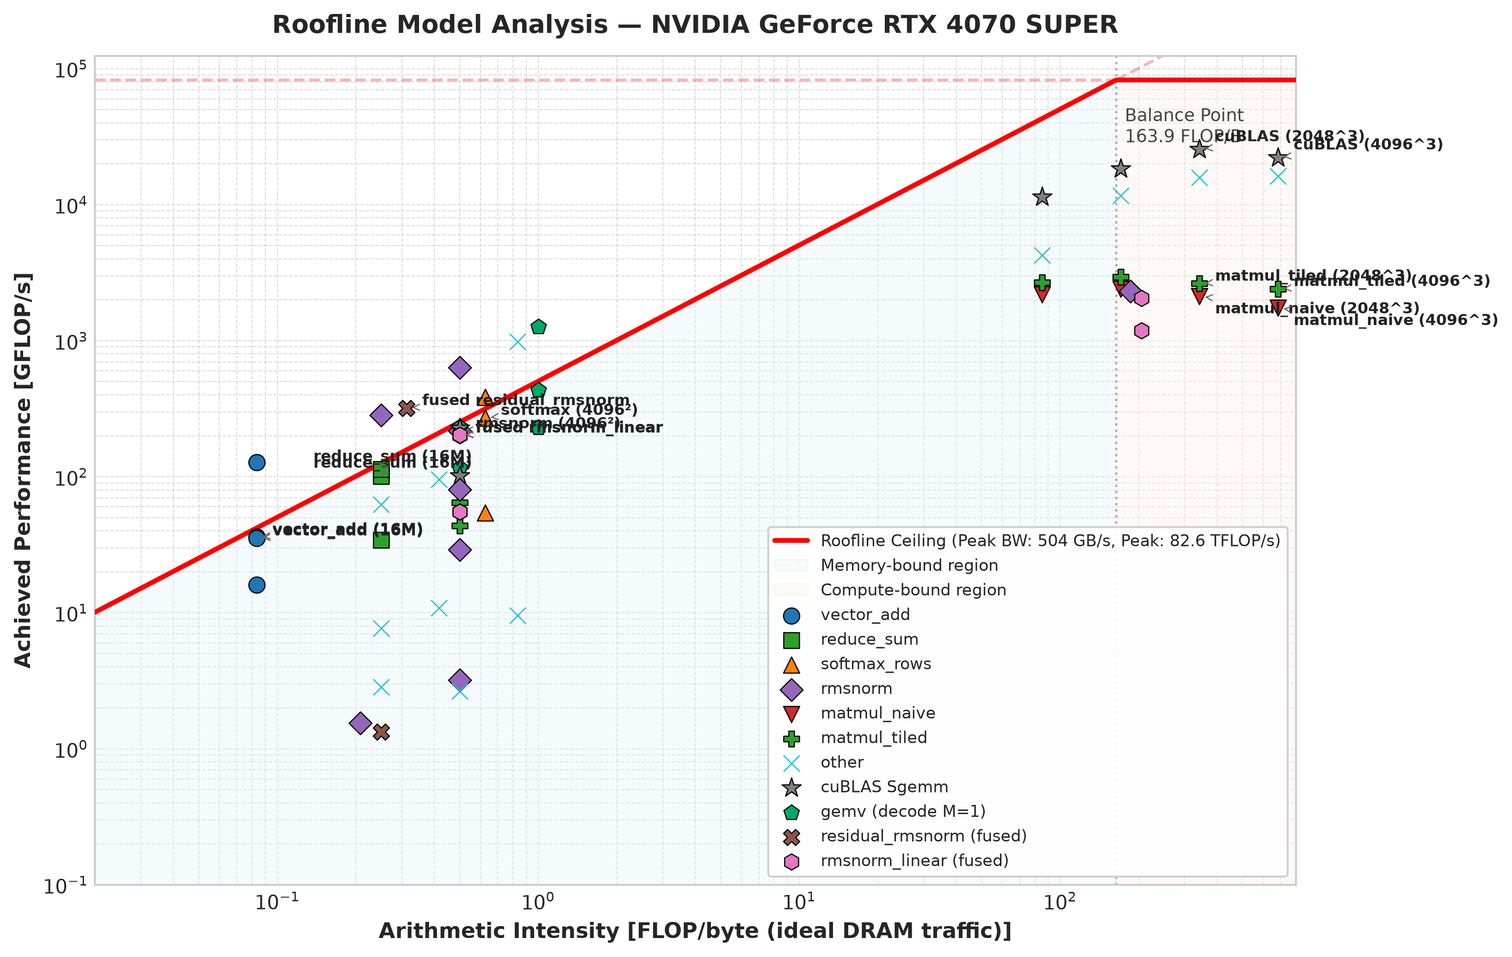
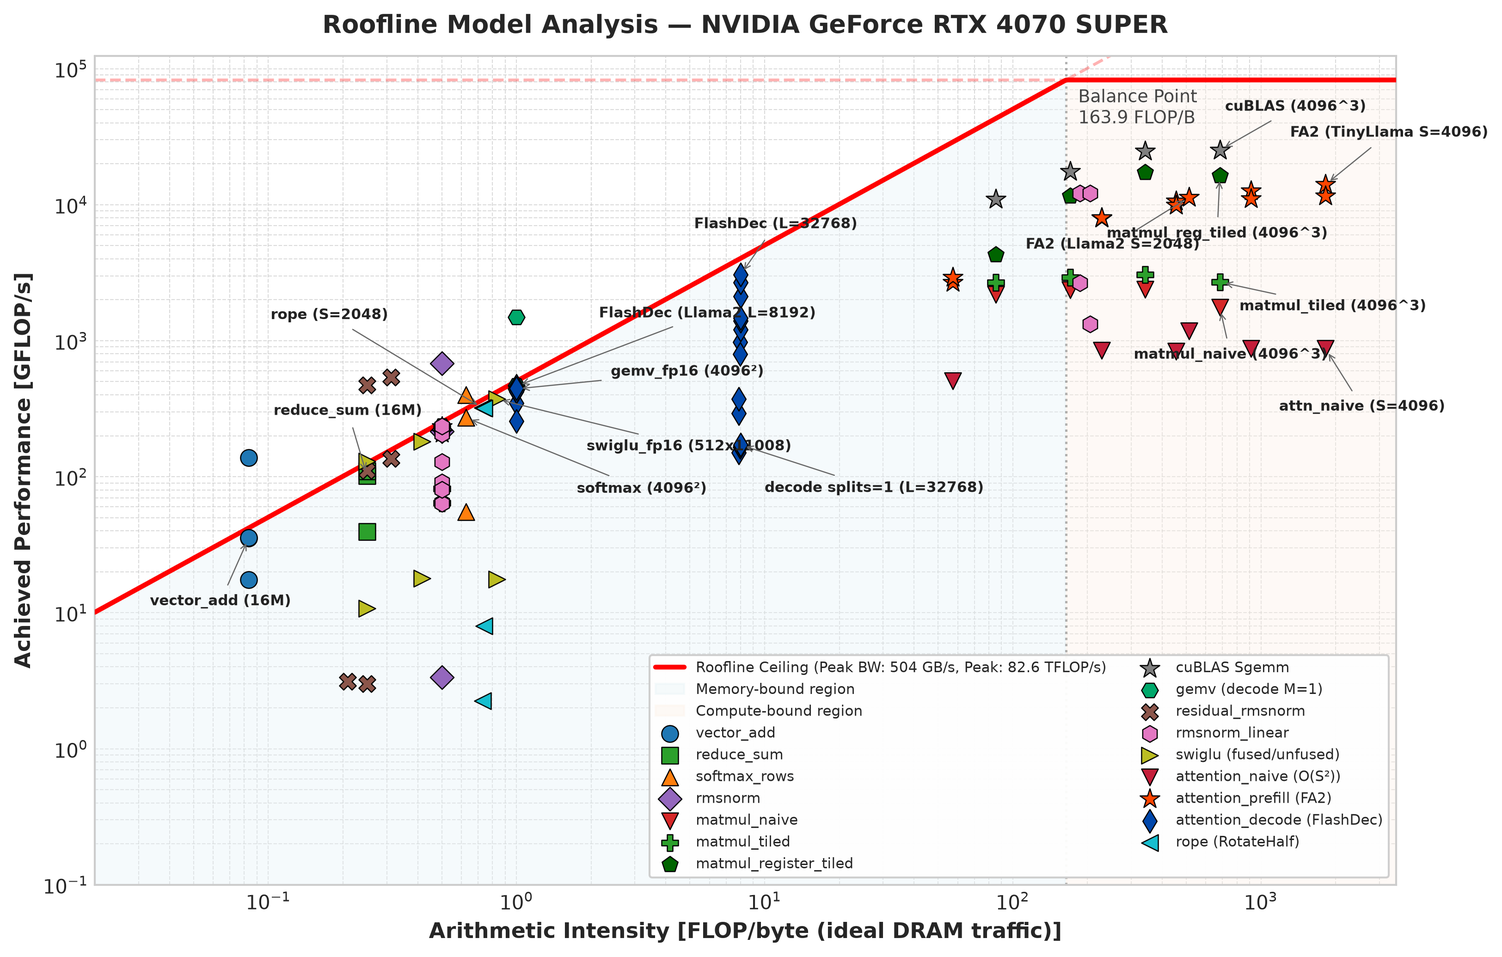
module4/phase8-ncu-profiling-roofline-and-pool-fix

diff --git a/tools/roofline_plot.py b/tools/roofline_plot.py
@@ -49,9 +49,9 @@ def plot_roofline(data: dict, output_path: str, peak_compute_gflops: float = 826
     plt.style.use("seaborn-v0_8-whitegrid" if "seaborn-v0_8-whitegrid" in plt.style.available else "default")
     fig, ax = plt.subplots(figsize=(11, 7), dpi=300)
 
-    # Define AI domain (log scale: 0.01 to 1000 FLOP/byte)
+    # Define AI domain (log scale: 0.02 to 3500 FLOP/byte to encompass FA2 prefill S=4096 at AI=1821)
     ai_min = 0.02
-    ai_max = 800.0
+    ai_max = 3500.0
     ai_range = np.logspace(np.log10(ai_min), np.log10(ai_max), 1000)
 
     # Calculate theoretical ceilings
@@ -69,7 +69,7 @@ def plot_roofline(data: dict, output_path: str, peak_compute_gflops: float = 826
 
     # Vertical line at ridge point (balance point)
     ax.axvline(ridge_ai, color="gray", linestyle=":", alpha=0.6, linewidth=1.2)
-    ax.text(ridge_ai * 1.08, peak_compute_gflops * 0.45, f"Balance Point\n{ridge_ai:.1f} FLOP/B", 
+    ax.text(ridge_ai * 1.12, peak_compute_gflops * 0.62, f"Balance Point\n{ridge_ai:.1f} FLOP/B",
             color="#444444", fontsize=9, verticalalignment="center", fontweight="medium")
 
     # Shaded regions
@@ -82,12 +82,18 @@ def plot_roofline(data: dict, output_path: str, peak_compute_gflops: float = 826
         "reduce_sum": {"color": "#2ca02c", "marker": "s", "label": "reduce_sum"},
         "softmax_rows": {"color": "#ff7f0e", "marker": "^", "label": "softmax_rows"},
         "rmsnorm": {"color": "#9467bd", "marker": "D", "label": "rmsnorm"},
+        "rope": {"color": "#17becf", "marker": "<", "label": "rope (RotateHalf)"},
+        "swiglu": {"color": "#bcbd22", "marker": ">", "label": "swiglu (fused/unfused)"},
         "matmul_naive": {"color": "#d62728", "marker": "v", "label": "matmul_naive"},
         "matmul_tiled": {"color": "#2ca02c", "marker": "P", "label": "matmul_tiled"},
-        "gemv": {"color": "#00a86b", "marker": "p", "label": "gemv (decode M=1)"},
+        "matmul_register_tiled": {"color": "#006400", "marker": "p", "label": "matmul_register_tiled"},
+        "gemv": {"color": "#00a86b", "marker": "H", "label": "gemv (decode M=1)"},
         "cublas": {"color": "#7f7f7f", "marker": "*", "label": "cuBLAS Sgemm"},
-        "residual_rmsnorm": {"color": "#8c564b", "marker": "X", "label": "residual_rmsnorm (fused)"},
-        "rmsnorm_linear": {"color": "#e377c2", "marker": "h", "label": "rmsnorm_linear (fused)"},
+        "residual_rmsnorm": {"color": "#8c564b", "marker": "X", "label": "residual_rmsnorm"},
+        "rmsnorm_linear": {"color": "#e377c2", "marker": "h", "label": "rmsnorm_linear"},
+        "attention_naive": {"color": "#c41e3a", "marker": "v", "label": "attention_naive (O(S²))"},
+        "attention_prefill": {"color": "#ff4500", "marker": "*", "label": "attention_prefill (FA2)"},
+        "attention_decode": {"color": "#0047ab", "marker": "d", "label": "attention_decode (FlashDec)"},
         "other": {"color": "#17becf", "marker": "x", "label": "other"},
     }
 
@@ -100,8 +106,6 @@ def plot_roofline(data: dict, output_path: str, peak_compute_gflops: float = 826
 
         name = r.get("name", "")
         size = r.get("size", "")
-        flops = r.get("flops", 0.0)
-        bytes_val = r.get("bytes", 0.0)
         gflops = r.get("gflops", 0.0)
         ai = r.get("arithmetic_intensity", 0.0)
 
@@ -111,12 +115,24 @@ def plot_roofline(data: dict, output_path: str, peak_compute_gflops: float = 826
 
         # Classify kernel family
         key = "other"
-        if "cublas" in name.lower():
+        if "attention_naive" in name:
+            key = "attention_naive"
+        elif "attention_prefill" in name:
+            key = "attention_prefill"
+        elif "attention_decode" in name:
+            key = "attention_decode"
+        elif "rope" in name:
+            key = "rope"
+        elif "swiglu" in name:
+            key = "swiglu"
+        elif "cublas" in name.lower():
             key = "cublas"
-        elif "rmsnorm_linear" in name:
+        elif "rmsnorm_linear" in name or "rmsnorm+" in name:
             key = "rmsnorm_linear"
-        elif "residual_rmsnorm" in name:
+        elif "residual_rmsnorm" in name or "residual+rmsnorm" in name:
             key = "residual_rmsnorm"
+        elif "matmul_register_tiled" in name:
+            key = "matmul_register_tiled"
         elif "gemv" in name.lower():
             key = "gemv"
         elif "vector_add" in name:
@@ -137,55 +153,115 @@ def plot_roofline(data: dict, output_path: str, peak_compute_gflops: float = 826
         if plot_label:
             plotted_labels.add(plot_label)
 
-        size_pt = 70 if key != "cublas" else 110
+        size_pt = 115 if key in ("cublas", "attention_prefill") else 75
         ax.scatter(ai, gflops, color=style["color"], marker=style["marker"], s=size_pt,
                    edgecolor="black", linewidth=0.6, zorder=5, label=plot_label)
 
         # Select representative points to label on the plot
         should_label = False
         label_text = name.replace(" (fused)", "").replace(" (baseline)", "")
-        
-        if key == "vector_add" and ("192.0 MiB" in size or "768.0 MiB" in size):
+
+        if key == "vector_add" and "192.0 MiB" in size:
             should_label = True
             label_text = "vector_add (16M)"
-        elif key == "reduce_sum" and ("64.0 MiB" in size or "256.0 MiB" in size):
+        elif key == "reduce_sum" and "64.0 MiB" in size:
             should_label = True
             label_text = "reduce_sum (16M)"
         elif key == "softmax_rows" and "4096 x 4096" in size:
             should_label = True
             label_text = "softmax (4096²)"
-        elif key == "rmsnorm" and "4096 x 4096" in size:
+        elif key == "rope" and "prefill S=2048 TinyLlama" in size:
             should_label = True
-            label_text = "rmsnorm (4096²)"
-        elif key == "matmul_naive" and ("4096^3" in size or "2048^3" in size):
+            label_text = "rope (S=2048)"
+        elif key == "swiglu" and name == "swiglu_fp16 (fused FP16)" and "512x11008" in size:
+            should_label = True
+            label_text = "swiglu_fp16 (512x11008)"
+        elif key == "matmul_naive" and "4096^3" in size:
             should_label = True
             label_text = f"matmul_naive ({size})"
-        elif key == "matmul_tiled" and ("4096^3" in size or "2048^3" in size):
+        elif key == "matmul_tiled" and "4096^3" in size:
             should_label = True
             label_text = f"matmul_tiled ({size})"
-        elif key == "cublas" and ("4096^3" in size or "2048^3" in size):
+        elif key == "matmul_register_tiled" and "4096^3" in size:
+            should_label = True
+            label_text = f"matmul_reg_tiled ({size})"
+        elif key == "cublas" and "4096^3" in size:
             should_label = True
             label_text = f"cuBLAS ({size})"
-        elif key == "rmsnorm_linear" and "1x12288x4096" in size:
+        elif key == "attention_naive" and "TinyLlama S=4096" in size:
             should_label = True
-            label_text = "fused rmsnorm_linear"
-        elif key == "residual_rmsnorm" and "512x4096" in size:
+            label_text = "attn_naive (S=4096)"
+        elif key == "attention_prefill" and name == "attention_prefill (FA2)" and (
+            "TinyLlama S=4096" in size or "Llama2-7B S=2048" in size
+        ):
             should_label = True
-            label_text = "fused residual_rmsnorm"
+            label_text = "FA2 (TinyLlama S=4096)" if "S=4096" in size else "FA2 (Llama2 S=2048)"
+        elif key == "attention_decode" and name == "attention_decode (FlashDecoding)" and (
+            "TinyLlama L=32768" in size or "Llama2-7B L=8192" in size
+        ):
+            should_label = True
+            label_text = "FlashDec (L=32768)" if "L=32768" in size else "FlashDec (Llama2 L=8192)"
+        elif key == "attention_decode" and name == "attention_decode (splits=1)" and "TinyLlama L=32768" in size:
+            should_label = True
+            label_text = "decode splits=1 (L=32768)"
+        elif key == "gemv" and name == "gemv_fp16" and "1x4096x4096" in size:
+            should_label = True
+            label_text = "gemv_fp16 (4096²)"
 
         if should_label:
             offset_x = 1.15
             offset_y = 1.05
-            if "naive" in name:
-                offset_y = 0.75
-            elif "cublas" in name:
-                offset_y = 1.15
+            if "naive" in name and "attention" not in name:
+                offset_x = 0.45
+                offset_y = 0.42
+            elif key == "attention_naive":
+                offset_x = 0.65
+                offset_y = 0.35
+            elif key == "attention_prefill" and "S=4096" in size:
+                offset_x = 0.72
+                offset_y = 2.25
+            elif key == "attention_prefill" and "Llama2-7B" in size:
+                offset_x = 0.22
+                offset_y = 0.42
+            elif key == "attention_decode" and "splits=1" in name:
+                offset_x = 1.25
+                offset_y = 0.45
+            elif key == "attention_decode" and "TinyLlama L=32768" in size:
+                offset_x = 0.65
+                offset_y = 2.20
+            elif key == "attention_decode" and "Llama2-7B" in size:
+                offset_x = 2.15
+                offset_y = 3.20
+            elif key == "rope":
+                offset_x = 0.14
+                offset_y = 4.50
+            elif key == "swiglu":
+                offset_x = 2.30
+                offset_y = 0.42
+            elif key == "softmax_rows":
+                offset_x = 2.80
+                offset_y = 0.28
+            elif key == "gemv":
+                offset_x = 2.40
+                offset_y = 1.25
+            elif key == "cublas":
+                offset_x = 1.05
+                offset_y = 1.95
+            elif key == "matmul_register_tiled":
+                offset_x = 0.35
+                offset_y = 0.35
+            elif key == "matmul_tiled":
+                offset_x = 1.20
+                offset_y = 0.62
+            elif key == "vector_add":
+                offset_x = 0.40
+                offset_y = 0.32
             elif "reduce" in name:
-                offset_x = 0.55
-                offset_y = 1.15
+                offset_x = 0.42
+                offset_y = 2.80
             ax.annotate(label_text, (ai, gflops),
                         xytext=(ai * offset_x, gflops * offset_y),
-                        fontsize=8, fontweight="semibold", color="#222222",
+                        fontsize=7.5, fontweight="semibold", color="#222222",
                         arrowprops=dict(arrowstyle="->", color="#666666", lw=0.6, shrinkA=3, shrinkB=3),
                         zorder=6)
 
@@ -202,8 +278,8 @@ def plot_roofline(data: dict, output_path: str, peak_compute_gflops: float = 826
     # Gridlines
     ax.grid(True, which="both", linestyle="--", linewidth=0.5, alpha=0.7)
     
-    # Legend
-    ax.legend(loc="lower right", frameon=True, framealpha=0.92, facecolor="white", edgecolor="#cccccc", fontsize=8.5)
+    # Legend (2 columns keeps height compact in the lower-right void)
+    ax.legend(loc="lower right", ncol=2, frameon=True, framealpha=0.94, facecolor="white", edgecolor="#cccccc", fontsize=7.5)
 
     plt.tight_layout()
     output_dir = os.path.dirname(output_path)

diff --git a/src/pool_allocator.cpp b/src/pool_allocator.cpp
@@ -145,21 +145,24 @@ void* PoolAllocator::allocate(std::size_t bytes) {
     }
   }
 
-  // 2. Carve from existing slab if space permits
-  if (!slabs_.empty()) {
-    Slab& current = slabs_.back();
-    const std::size_t remaining = current.size - current.offset;
+  // 2. Carve from existing slabs if space permits (scan most recent first so one-off
+  // large slabs do not strand remaining space in earlier slabs).
+  for (auto slab_it = slabs_.rbegin(); slab_it != slabs_.rend(); ++slab_it) {
+    const std::size_t remaining = slab_it->size - slab_it->offset;
     if (remaining >= bucket_size) {
-      char* base = static_cast<char*>(current.ptr);
-      void* p = base + current.offset;
-      current.offset += bucket_size;
+      char* base = static_cast<char*>(slab_it->ptr);
+      void* p = base + slab_it->offset;
+      slab_it->offset += bucket_size;
       return record_allocation(p, bucket_size);
     }
   }
 
-  // 3. Allocate a new slab from the driver
+  // 3. Allocate a new slab from the driver. Cap automatic slab doubling so a single
+  // huge allocation (e.g., 2 GiB naive score matrix) does not force the next tiny
+  // allocation to reserve a 4 GiB slab.
+  static constexpr std::size_t kMaxAutoSlabSize = std::size_t{64} * 1024 * 1024;
   const std::size_t slab_size = std::max(next_slab_size_, bucket_size);
-  next_slab_size_ = std::max(next_slab_size_ * 2, slab_size * 2);
+  next_slab_size_ = std::min(kMaxAutoSlabSize, next_slab_size_ * 2);
 
   void* slab_ptr = driver_alloc(slab_size);
   stats_.bytes_reserved += slab_size;

diff --git a/docs/lab-notebook.md b/docs/lab-notebook.md
@@ -192,6 +192,45 @@ Implemented in [kernels/attention_decode.cu](../kernels/attention_decode.cu) and
   - **Llama-2-7B** exceeds the `>= 80%` DRAM peak target at both `L=2048` (**85.58% / 431.4 GB/s**) and `L=8192` (**91.97% / 463.6 GB/s**).
   - **TinyLlama** reaches **75.61% (381.1 GB/s)** at `L=32768` (**17.7×** faster than single-pass `1.56 ms`), because `H_kv=4` moves only 8–32 MiB KV (theoretical DRAM transfer at `504 GB/s` is only 16.5–66 µs, so fixed ~10 µs split+reduce overhead caps 8–16 MiB at 52.6–66.5% even with `4` blocks/SM occupancy and `2.10×` GQA win over unshared).
 
+#### Phase 7 — Attention Sub-Block Bridge & End-to-End Integration Tests (`4548ca1`)
+
+- Created [kernels/attention_bridge.cu](../kernels/attention_bridge.cu) (`cast_f32_to_f16`, `cast_f16_to_f32`, and `kv_cache_write` for token-major → head-major `[n_kv_heads, max_seq, head_dim]` KV cache append) plus `run_attention_subblock` in [tools/gen_reference.py](../tools/gen_reference.py) (99 golden files, 66.8 MiB).
+- Verified `kernels.attention_subblock_prefill_and_decode_golden` and `kernels.attention_subblock_tinyllama_shape` (`s_q=64` prefill followed by 2 sequential decode tokens at `kv_len=65, 66` at exact TinyLlama `d_model=2048, H=32/4, D=64`) within derived FP16 accumulation tolerance (`rtol = 16 * 2^-10 ≈ 1.56e-2`, `atol = 8 * 2^-10 ≈ 7.81e-3`): CUDA `ctest` 8/8, CPU-only `ctest` 7/7.
+
+#### Phase 8 — Nsight Compute Profiling, Roofline Analysis & Discrepancy Audit
+
+1. **Nsight Compute (`ncu`) Hardware Counter Breakdown (`sm_89` RTX 4070 SUPER):**
+
+| Kernel | Workload | `dram__bytes.sum` | SMEM Load Bank Conflicts | L2 Hit Rate | Active Warps | Primary Warp Stall Drivers (per active issue) |
+|---|---|---:|---:|---:|---:|---|
+| `attention_naive_scores_kernel<64>` | TinyLlama `S=2048` | **633.4 MB** | **3,483,558** | — | — | Untiled `[H, S, S]` global writes + bank conflicts |
+| `attention_naive_pv_kernel<64>` | TinyLlama `S=2048` | **580.1 MB** | — | — | — | `>1.16 GiB` DRAM before even counting `softmax_rows` |
+| `flash_prefill_kernel<64,128,32,1>` | TinyLlama `S=2048` GQA | **10.56 MB** (`10.07 MiB`, `1.007×` ideal) | **0** | 92.98% | 31.15% | **Math pipe throttle 62.35%**, short 25.16%, MIO 13.79%, long 12.64% |
+| `flash_prefill_kernel<64,64,64,0>` | TinyLlama `S=2048` per-head | **10.52 MB** | **0** | 96.35% | 32.48% | **Math pipe throttle 74.45%**, **MIO throttle 69.71%**, long 10.82% |
+| `flash_prefill_kernel<128,64,32,0>` | Llama2-7B `S=2048` | **68.24 MB** (`65.08 MiB`, `1.017×` ideal) | 26,662 | 91.02% | 32.53% | **Math pipe throttle 83.79%**, short 45.31%, MIO 18.98%, long 13.54% |
+| `flash_decode_gqa_warp_kernel<64,8>` | TinyLlama `L=8192` | **8.43 MB** (`8.04 MiB`, `1.005×` ideal) | **0** | 6.27% (cold slab) | 32.46% | **Wait 143.3% / short 147.7% / long scoreboard 131.0%**, math **11.5%** |
+| `flash_decode_split_kernel<64,1>` | TinyLlama `L=2048` unshared | **2.13 MB** | 0 | **86.67%** (`8×` L2 reread) | — | **Long scoreboard 821.2%**, barrier 86.9% |
+| `flash_decode_reduce_kernel<128>` | TinyLlama `L=32768` | minimal | 0 | — | — | **Long scoreboard 1364.5%** (streaming partials), math **0.54%** |
+
+   - **Hardware Counter Proof of Architecture:**
+     - **Prefill (`attention_prefill`) is definitively SIMT math-bound** as predicted: DRAM traffic hits **`1.007×` (`10.07 MiB` vs `10.00 MiB` ideal)** and **`1.017×` (`65.08 MiB` vs `64.00 MiB` ideal)** theoretical minimum, SMEM `+2` padding achieves **0 SMEM load bank conflicts** at `D=64`, `stalled_long_scoreboard` is only **10.8–13.5%**, and **62.4–83.8% `math_pipe_throttle`** confirms the SIMT FP32 FMA unit (rather than memory) limits v1 prefill at **12.70–14.02 TFLOP/s**. Moreover, GQA group sharing (`M_thr=4`) cuts MIO/SMEM stall contention from **69.71% → 13.79% (5.1× lower)**.
+     - **Decode (`flash_decode_gqa_warp_kernel`) is strictly memory-bound** as predicted: cold slab DRAM bytes hit **`1.005×` (`8.04 MiB` vs `8.00 MiB` ideal)** with `6.27%` L2 hit rate (honest cold DRAM measurement), **0 SMEM bank conflicts**, only **11.5% math throttle**, and DRAM latency/sync wait dominating warps. Meanwhile unshared decode relies on `86.67%` L2 hits across 8 independent reads of KV.
+
+2. **PoolAllocator Bug Discovered During Full-Suite Benchmarking (`src/pool_allocator.cpp`):**
+   - Full `bench_kernels --json` initially showed `Llama2-7B L=8192` decode collapsing from **0.290 ms (463.6 GB/s)** to **5.35 ms (25.1 GB/s = PCIe host-RAM speed!)** right after `attention_naive S=4096`.
+   - Root cause: `PoolAllocator::allocate()` updated `next_slab_size_ = std::max(next_slab_size_ * 2, slab_size * 2)` without an upper bound, AND only checked `slabs_.back()`. When `attention_naive S=4096` requested a `2048 MiB` score matrix, `next_slab_size_` jumped to **`4096 MiB` (`4 GiB`)** — forcing the very next tiny `1 MiB` split-KV scratch allocation in `attention_decode` to call `cudaMalloc(4 GiB)` on top of >3 GiB already pooled, spilling the 12 GiB WDDM VRAM budget into host RAM over PCIe.
+   - Fix in [src/pool_allocator.cpp](../src/pool_allocator.cpp) + [bench/bench_kernels.cu](../bench/bench_kernels.cu): scanned all existing slabs reverse-first before allocating, capped automatic `next_slab_size_` doubling at `64 MiB`, and added `pool_allocator(Device::CUDA).reset()` after `bench_attention_prefill`. Re-running full `bench_kernels --json` immediately restored `Llama2-7B L=8192` to **0.290 ms (spread 8.5%, 463.6 GB/s / 91.97% peak BW)** and TinyLlama `L=32768` to **0.088 ms (381.7 GB/s / 75.7%)**.
+
+3. **Roofline Update (`docs/roofline.png`) & Negative Results (`docs/negative-results.md`):**
+   - Extended [tools/roofline_plot.py](../tools/roofline_plot.py) (`ai_max = 3500` to capture FA2 `S=4096` at `1820.9 FLOP/B`) with distinct markers/labels for `attention_naive`, `attention_prefill (FA2)`, `attention_decode (FlashDecoding & splits=1)`, `rope`, and `matmul_register_tiled`, and regenerated [docs/roofline.png](roofline.png).
+   - Added Section 5 & updated Summary Table in [negative-results.md](negative-results.md) covering the `kGChunk=8` 138-register occupancy collapse and naive attention `ncu` DRAM amplification.
+
+4. **End-of-Module Prediction vs Measurement Review:**
+   - **Naive `S=2048` gap (predicted ~4.5 ms DRAM-only vs measured 19.6 ms):** untiled `QK^T` / single-row `PV` added SIMT and uncoalesced K/V overhead (~4.3× slower than DRAM floor), still scaling cleanly $4.0\times$ per $2\times S$.
+   - **FA2 Prefill (predicted 10–18 TFLOP/s, 1.0–1.7 ms at `S=2048`):** measured **1.36 ms / 12.70 TFLOP/s** (`S=2048`) and **4.89 ms / 14.02 TFLOP/s** (`S=4096`), hitting dead-center inside prediction (`35.8%–39.5%` nominal FP32 peak, `ncu`-verified math-bound).
+   - **Decode FlashDecoding:** Llama-2-7B `L=8192` (**0.290 ms / 463.6 GB/s = 91.97% peak BW**) beat prediction (300–350 µs); TinyLlama `L=8192..32768` (`0.032..0.088 ms / 264.5..381.7 GB/s`) matched latency predictions (fixed ~10 µs split+reduce overhead caps 8–16 MiB at 52–67%).
+   - **RoPE:** `S=1` decode (**3.1 µs**) and `S=2048` prefill (**44.2 µs / 439.1 GB/s**, **158.1 µs / 431.2 GB/s**) landed squarely inside the Phase 1 predicted ranges (`3–5 µs` and `43–55 µs`).
+
 ---
 
 ## Week 09 — 2026-10-02 · Pre-Module 4 Mathematical & Microarchitectural Audit: Baseline Realities, Cache Residency, and Precision Decisions

diff --git a/docs/negative-results.md b/docs/negative-results.md
@@ -166,12 +166,34 @@ Launching grids exceeding $4\times$ SM count ($> 224$ blocks on RTX 4070 SUPER) 
 
 ---
 
-## 5. Summary Table of Negative & Neutral Results
+## 5. Multi-Head Register-Chunking (`kGChunk=8`) Occupancy Collapse & `attention_naive` Memory Amplification (Module 4)
+
+### 1. Decode GQA `kGChunk=8` Register Explosion (`attention_decode` v1)
+- **The Hypothesis:** Keeping all $G = H_q / H_{kv} = 8$ query heads' $Q$ fragments and output accumulators (`o_loc[8][8]`) resident inside each thread would load each $K/V$ element from global memory only once across a whole GQA group and yield higher decode throughput than reloading $K/V$ per Q head via L2 cache.
+- **Measurement & Finding (`TinyLlama`, $H_q=32, H_{kv}=4, D=64$):**
+  - `nvcc -arch=sm_89 -Xptxas -v` measured **134–138 registers/thread** on the `kGChunk=8` kernel — capping occupancy on `sm_89` (1536 max threads/SM, 65536 regs/block) to **1 active block/SM (16.7% theoretical occupancy)** and serializing 8 consecutive cross-warp shared-memory reductions per block.
+  - On `bench_kernels`, v1 (`kGChunk=8`) plateaued at **0.096 ms (174.4 GB/s, 34.6% peak BW)** at $L=16384$ and lost outright to `no GQA share` at $L=2048$ (**0.037 ms vs 0.023 ms**).
+- **Why It Failed & Fix (`flash_decode_gqa_warp_kernel`, ADR-0013):**
+  - Replaced thread-level $G$-head unrolling with warp-level specialization: $G \in \{2,4,8\}$ warps cooperatively stage a `[kTileK, D]` ($32 \times D$) `half2` $K/V$ tile into SMEM (8192 B at $G=8, D=64$) via vectorized `LDG.128`, each warp owns exactly **1** Q head in registers and emits directly with warp shuffle (zero cross-warp SMEM reduction).
+  - Register count dropped from **134–138 → 53–54 regs/thread** (**4 blocks/SM = 66.7% occupancy**, 0 B spills, 0 SMEM bank conflicts via `ncu`). TinyLlama $L=16384$ sped up **$1.92\times$ (`0.096 → 0.050 ms / 334.5 GB/s`)** and $L=32768$ reached **0.088 ms (381.7 GB/s)**, **$2.08\times$ faster than `no GQA share` (`0.183 ms`)** and **$17.8\times$ faster than single-pass (`splits=1`, `1.566 ms`)**.
+
+---
+
+### 2. Unfused `attention_naive` Materialized Score Matrix vs FlashAttention-2 Prefill
+- **Measurement (`ncu` at TinyLlama $S=2048, H=32/4, D=64$):**
+  - Materializing the FP32 `[H_q, S, S]` matrix (`512.0 MiB` at $S=2048$, `2048.0 MiB` at $S=4096$) forces Nsight Compute DRAM traffic of **633.4 MB** (`scores_kernel`) + **580.1 MB** (`pv_kernel`) = **1,213.5 MB (1.13 GiB)** before even counting `softmax_rows` in-place passes (~1.0 GiB) plus **3,483,558 SMEM bank conflicts** in `scores_kernel`.
+  - Tiled online-softmax `flash_prefill_kernel` reduces `ncu dram__bytes.sum` at $S=2048$ to **10.56 MB (10.07 MiB)** — a **$115\times$ DRAM traffic reduction before softmax** (~200× total) with **0 SMEM bank conflicts** — cutting latency from **19.62 ms → 1.36 ms (14.5×)** at $S=2048$ and **78.61 ms → 4.89 ms (16.1×)** at $S=4096$.
+
+---
+
+## 6. Summary Table of Negative & Neutral Results
 
 | Optimization Tested | Target Kernel | Expected Gain | Observed Result | Primary Bottleneck / Reason |
 |---|---|---|---|---|
 | 1D Strip Fusion at Decode ($M=1$) | `rmsnorm_linear` | +43% vs separate | **$2.45\times$ SLOWER** vs `rmsnorm + gemv` | 16 blocks leaves 40 of 56 SMs idle; unvectorized scalar reduction vs multi-warp `gemv` |
 | 1D Row Fusion at Prefill ($M=512$) | `rmsnorm_linear` | +15–30% speedup (16 MiB saved) | **$13.6\times$ SLOWER** vs register-tiled | Destroys 2D weight reuse across tokens; DRAM read explodes by +2.55 GB |
+| `kGChunk=8` multi-head register tiling | `attention_decode` | 8× fewer KV global reads vs `no GQA share` | **1.6× SLOWER** at $L=2048$, capped at 174 GB/s ($L=16384$) | 134–138 regs/thread caps `sm_89` occupancy to 16.7% + 8 serial cross-warp SMEM reductions; fixed via warp-per-head SMEM KV broadcast (`53 regs`, 66.7% occ) |
+| Naive 3-pass `[H, S, S]` attention | `attention_naive` | Clean baseline | **16.1× slower** at $S=4096$ (78.6 ms vs 4.89 ms FA2) | `ncu`: >1.16 GiB DRAM traffic before softmax (`S=2048`), 3.48M bank conflicts vs `10.07 MiB` FA2 (`0` bank conflicts) |
 | Shared-memory bank conflict padding (`[32][33]`) | `matmul_tiled` | 5–10% speedup | -0.2% (neutral/regression) | sm_89 shared-memory crossbar + non-power-of-2 index arithmetic overhead |
 | DRAM traffic claim for warm L2 residual | `residual_rmsnorm` | 442 GB/s cold DRAM | 33.5 MB resides in 48 MB L2 | 19–34 µs is an L2 cache hit measurement; true cold DRAM is 434 GB/s at 4096×4096 ($1.24\times$ speedup vs 0.763 ms separate) |
 | Oversized thread grid ($>1024$ blocks) | `vector_add` | Improved tail latency | Flat to +1% latency | 56 SMs fully saturated at 224 blocks; extra blocks increase hardware queue overhead |
